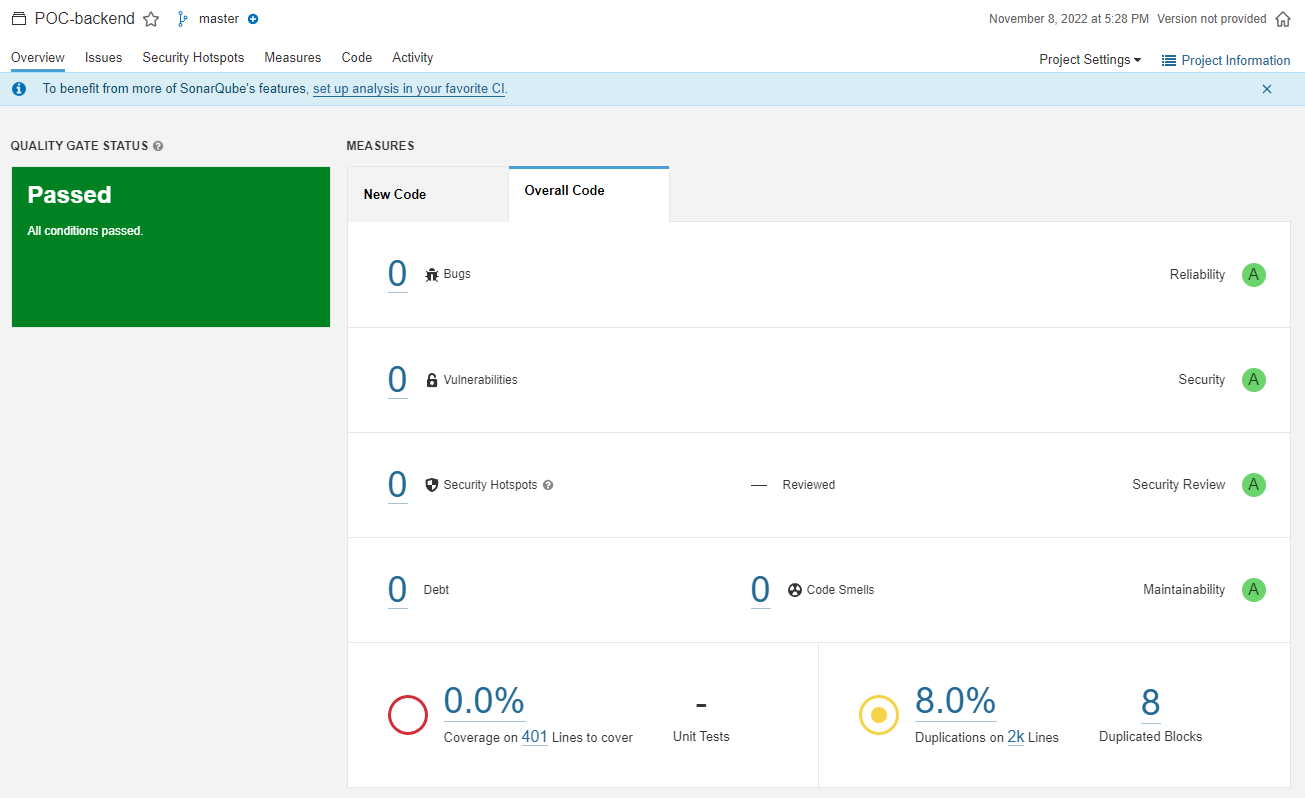
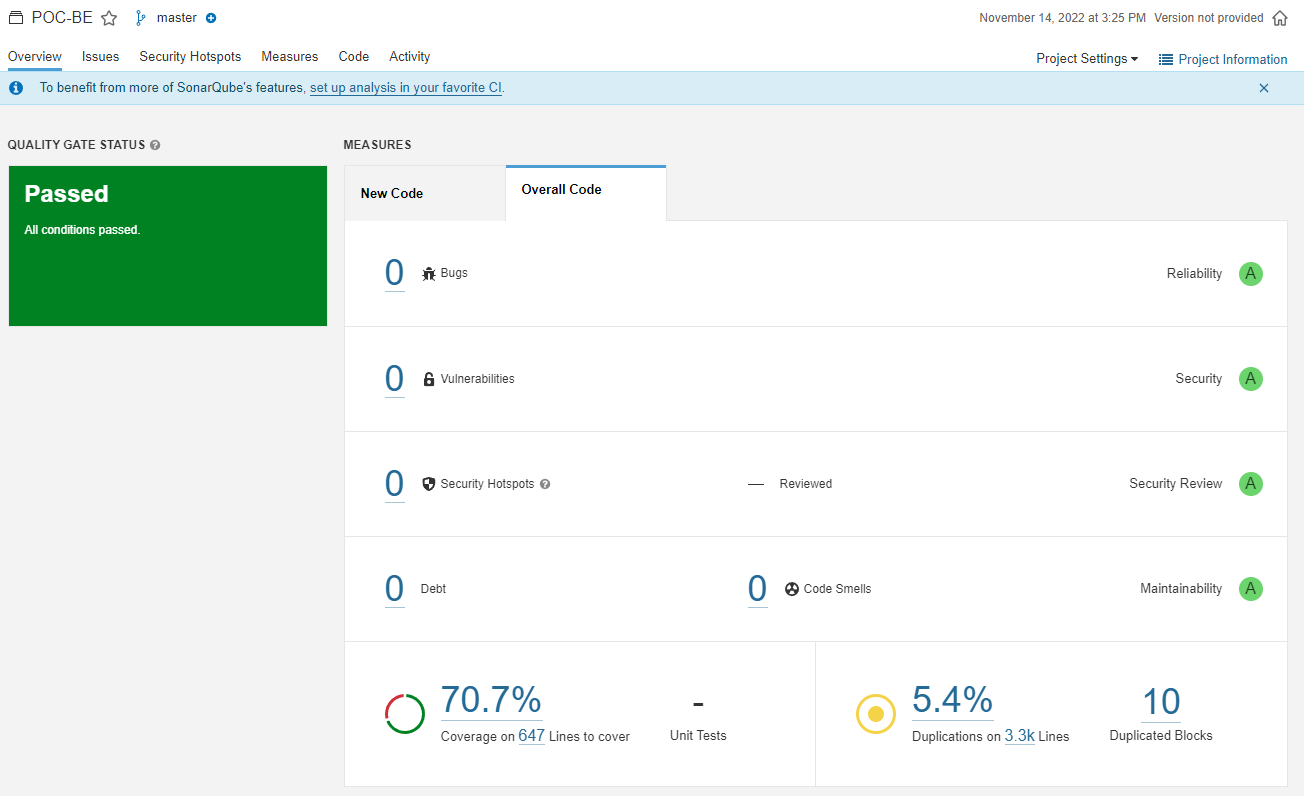
update readme and sonarqube images

diff --git a/README.md b/README.md
@@ -44,8 +44,7 @@
             <li>Perform CRUD operations on all table management.</li>
             <li>Activate/ Deactivate user.</li>
             <li>Approve/ Disapprove movie reviews done by users.</li>
-        </ul>   
-    <li>The list goes on....</li>    
+        </ul> 
 </ul>
 
 ## Requirements
@@ -106,7 +105,7 @@ This app has the following models:
 
 Similar to the `Movies` model, the `Actors` model is also marked as having many `Movies` through the `MovieCast` model using the `@hasMany(() => Movies, { through: {model: () => MovieCast})` to denote that it has many to many connection with the `Movies` model.
 
-`Reviews` is marked as belonging to the `User` model by the use of the `@belongsTo` model decorator. Correspondingly, the `User` model is marked as having many `Reviews` using the `@hasMany` model decorator.
+`Reviews` is marked as belonging to the `User` and `Movies` models by the use of the `@belongsTo` model decorator. Correspondingly, the `User` and `Movies` models are marked as having many `Reviews` using the `@hasMany` model decorator.
 
 ## Controllers
 
@@ -139,7 +138,7 @@ Once the credentials are extracted, the logging-in implementation at the control
 1. `const user = await this.userService.verifyCredentials(credentials)` - verify the credentials.
 2. `const userProfile = this.userService.convertToUserProfile(user)` - generate user profile object.
 3. `const token = await this.jwtService.generateToken(userProfile)` - generate JWT based on the user profile object.
-4. `return token and user` - send JWT and minimal user data.
+4. `return token` - send JWT.
 
 ## Authorization
 
@@ -151,23 +150,34 @@ The app has two roles: `admin`, and `user`. All get request endpoints of movies 
 
 ## Tests
 
-The frontend app has Unit test with backend API mocks using Mock Service Worker integrated to it. The backend however is not tested.
+The frontend app has Unit test with backend API mocks using Mock Service Worker integrated to it. The backend controllers are unit tested with loopback testlab's stub implementation to the respective repositories to isolate and test controllers.
 
-To execute the test, both frontend and backend must run simultaneously. On another terminal, run:
+To execute the test, both frontend and backend must run simultaneously. Open another two terminals for frontend and backend respectively and run:
 
 ```sh
+$ cd frontend
 $ npm test
 ```
 
-To see the test coverage, run:
+```sh
+$ cd backend
+$ npm test
+```
+
+To see the test coverage, follow the above instructions and run:
 
 ```sh
+$ cd frontend
+$ npm run coverage
+```
+
+```sh
+$ cd backend
 $ npm run coverage
 ```
 
 ### Sonarqube Scanner Results
 
-For the frontend, only the components and pages are unit tested with the coverage of more than 50%.
+Both frontend and backend are connected to sonarqube for scanning of code smells, bugs, security risks, vulnerabilities as well as see the test coverage. Below are the results for frontend (former) and backend (latter).
 ![frontend-sonarscan](./sonarFrontendPartial.PNG)
-The backend is not tested and was only scanned for code smells, bugs, security risks and vulnerabilities.
 ![backend-sonarscan](./sonarBackend.PNG)
